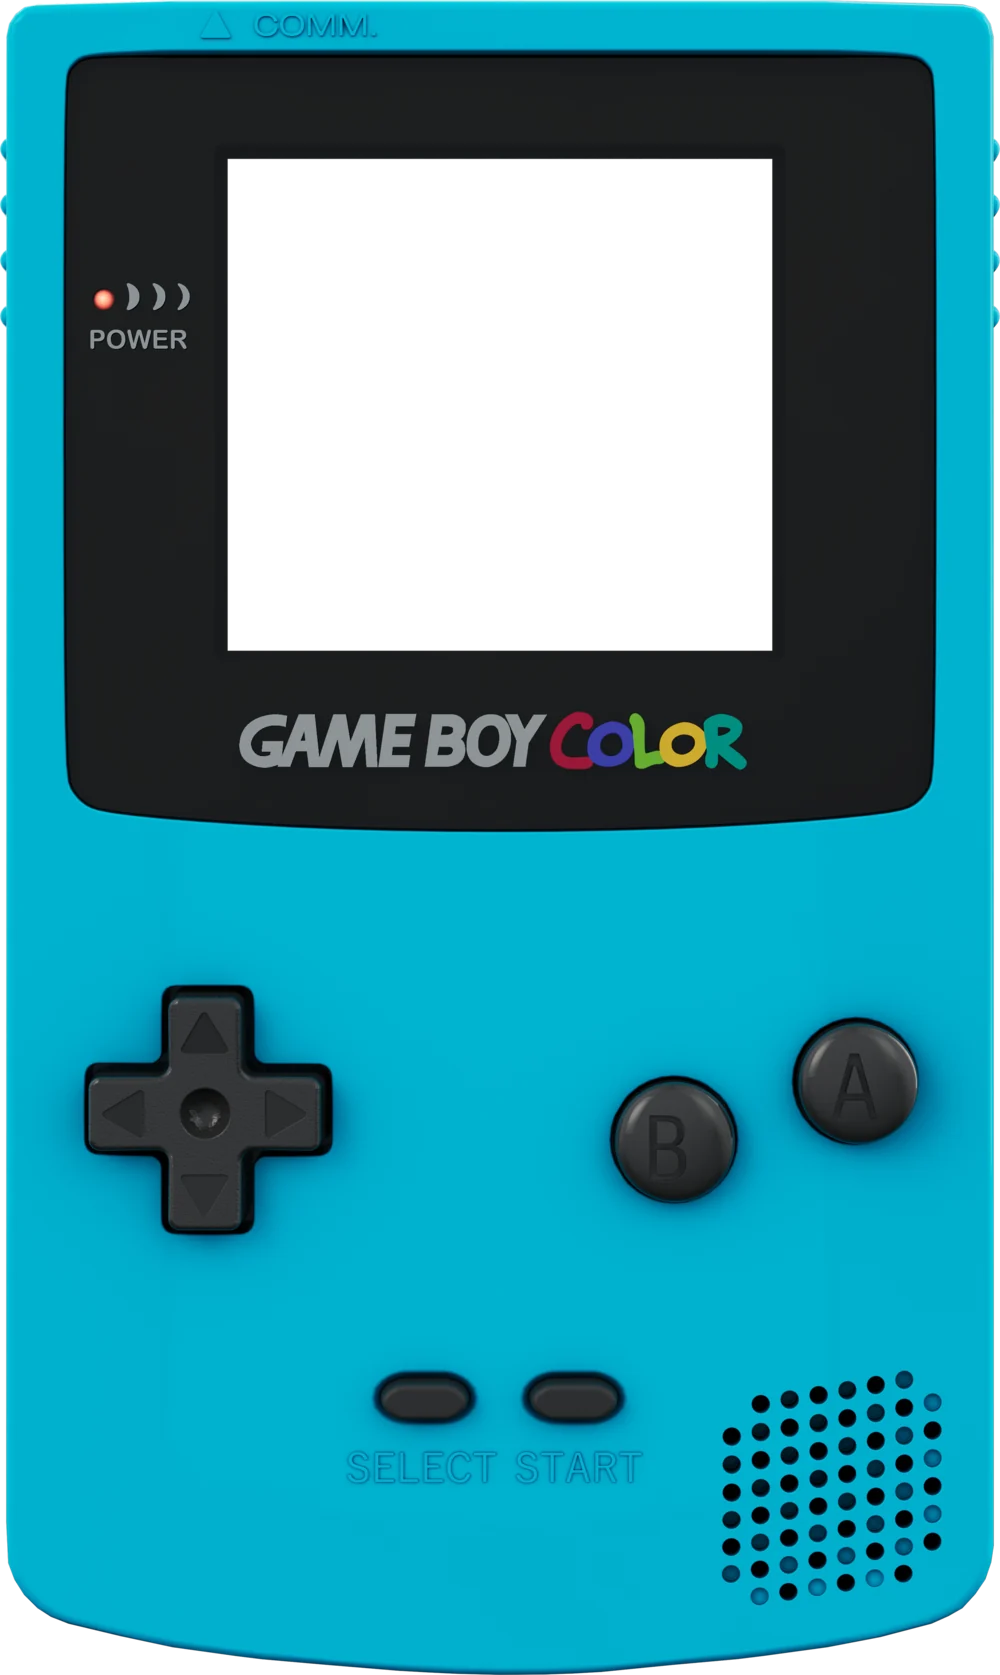
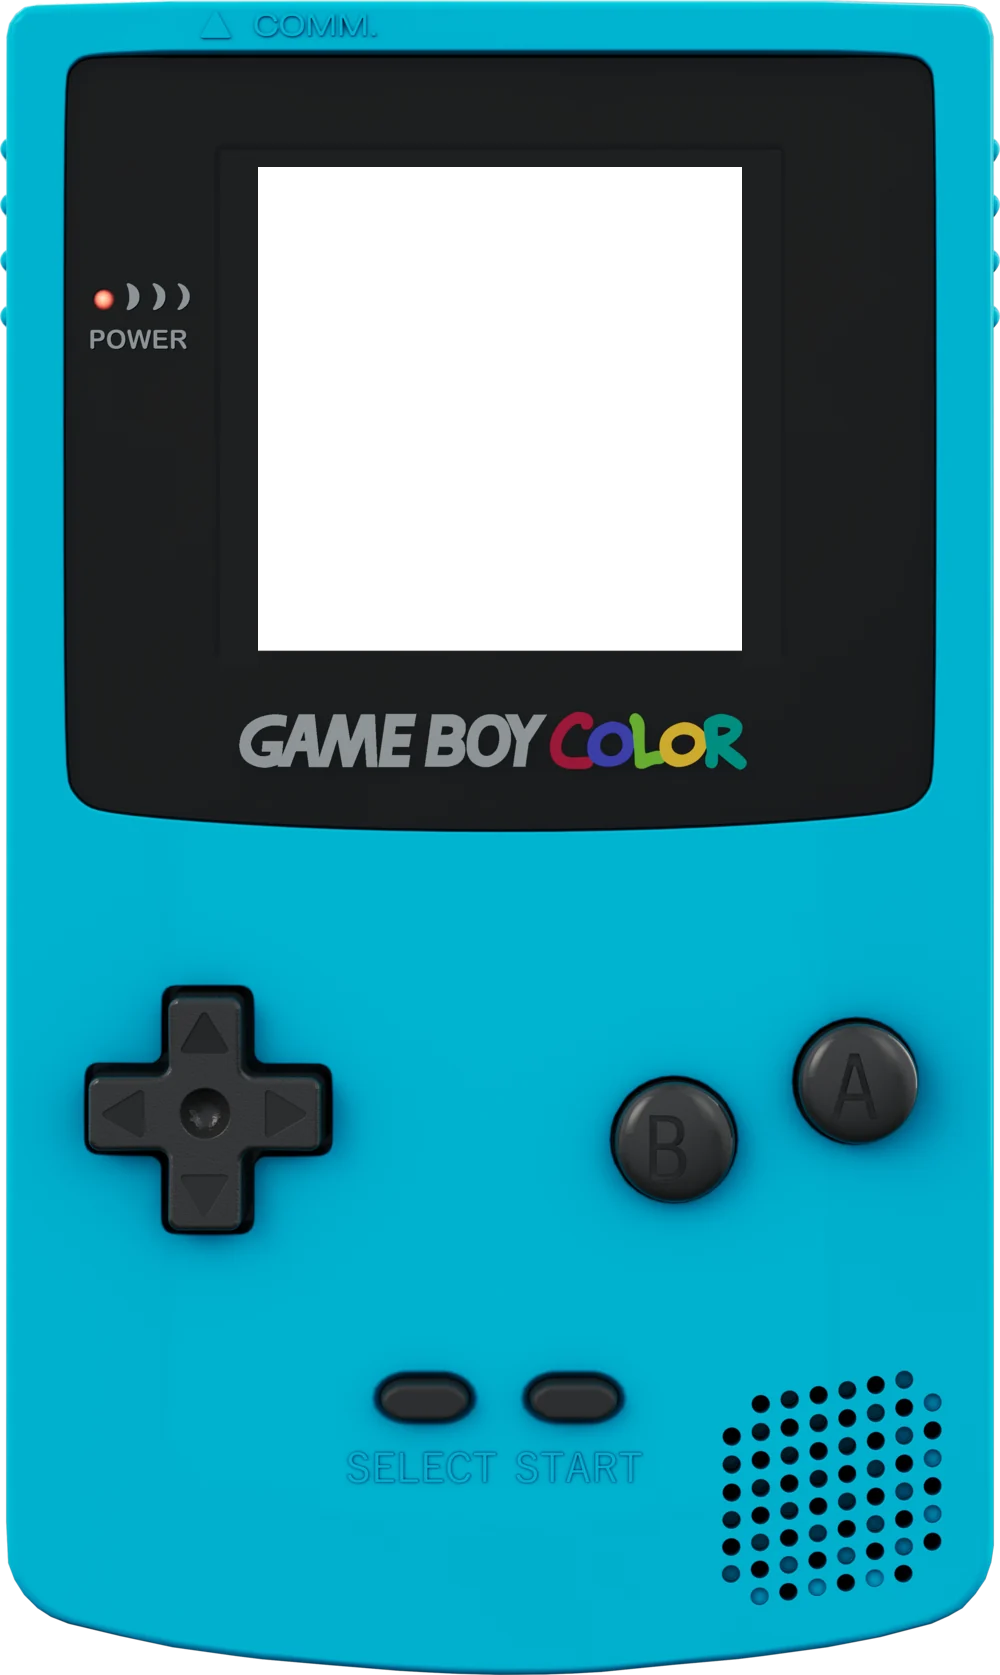
fix(projects): a square Game Boy Color screen for the game, the console larger and cut at its buttons
The photographed screen, 10:9, is made square for the game's 192 × 192: no
more black bars. The console grows, stands at the bottom of the band, left of
centre, cut above Select and Start.

Changed region(s): [[0.217, 0.0931, 0.775, 0.4036]]

diff --git a/src/projects/cinetropes-game.css b/src/projects/cinetropes-game.css
@@ -21,8 +21,10 @@
   --cg-slot: #2a1a14;
   --cg-gold: #ffd86a;
   --cg-font: 'Determination', monospace;
-  --console-height: min(calc(100svh - 64px), 860px);
+  /* The console stands at the bottom of the band, cut under its buttons, above Select and Start */
+  --console-height: calc((max(100svh, 640px) - 48px) / 0.79);
   min-height: max(100svh, 640px);
+  overflow: hidden;
   padding: 0;
   font-family: var(--cg-font);
   font-size: 16px;
@@ -84,19 +86,24 @@
   display: flex;
   align-items: center;
   justify-content: center;
-  gap: 56px;
-  min-height: inherit;
-  padding: 32px var(--gutter);
+  flex: 1;
+  align-self: stretch;
+  gap: 64px;
+  min-height: max(100svh, 640px);
+  padding: 0 var(--gutter);
 }
 
 /* The console: the photographed Game Boy Color, its screen and buttons placed on its 1000×1675
-   picture; the screen is 10:9, the game square in its middle */
+   picture, its screen made square for the game's 192 × 192 */
 
 .cg__console {
   position: relative;
   flex: none;
+  align-self: flex-end;
   height: var(--console-height);
   aspect-ratio: 1000 / 1675;
+  margin-bottom: calc(var(--console-height) * -0.21);
+  translate: -32px 0;
   filter: drop-shadow(0 24px 40px rgb(0 0 0 / 0.55));
   user-select: none;
   touch-action: manipulation;
@@ -112,24 +119,18 @@
 
 .cg__screen {
   position: absolute;
-  left: 22.8%;
+  left: 25.8%;
   top: 9.97%;
-  width: 54.4%;
+  width: 48.4%;
   height: 28.9%;
-  display: flex;
-  justify-content: center;
   background-color: #000;
-}
-
-.cg__screen > * {
-  flex: none;
 }
 
 .cg__canvas,
 .cg__game {
   display: block;
+  width: 100%;
   height: 100%;
-  aspect-ratio: 1;
   border: 0;
   image-rendering: pixelated;
 }
@@ -443,6 +444,13 @@
   }
 }
 
+/* Cut under the cross, Select and Start are out of sight: Start is A, Select the panel's rooms */
+@media (min-width: 861px) {
+  .cg__pill {
+    display: none;
+  }
+}
+
 @media (max-width: 860px) {
   .cg {
     --console-height: min(calc((100vw - 2 * var(--gutter)) * 1.675), 760px);
@@ -450,6 +458,13 @@
 
   .cg__layout {
     flex-direction: column;
+    padding-block: 32px;
+  }
+
+  .cg__console {
+    align-self: center;
+    margin-bottom: 0;
+    translate: none;
   }
 
   .cg__panel {
